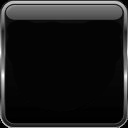
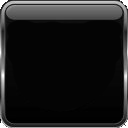
gfx update

diff --git a/main.cpp b/main.cpp
@@ -810,6 +810,7 @@ GLuint tidal_big_search_bar_album;
 // radio view icons
 GLuint onlineradio;                       // default radio icon
 GLuint onlineradio_empty;                 //
+GLuint onlineradio_selected;                 //
 GLuint onlineradio192;                    //
 GLuint onlineradio320;                    //
 GLuint radiooptions;                      //
@@ -12269,7 +12270,7 @@ void handleKeypress(unsigned char key, int x, int y) {
                   if (ask_save_playlist) {
                     save_ask_save_playlist = true;        // set save flag
                   }
-                  if (do_show_tidal_search_oversigt) {
+                  if ((do_show_tidal_search_oversigt) && (ask_save_playlist==false)) {
                     do_hent_tidal_search_online=true;
                     printf("do_hent_tidal_search_online=%d\n",do_hent_tidal_search_online);  
                   }
@@ -15369,6 +15370,7 @@ void loadgfx() {
     spotify_icon_border   = loadgfxfile(temapath,(char *) "images/",(char *) "spotify_icon_border.png");
 
     onlineradio_empty     = loadgfxfile(temapath,(char *) "images/",(char *) "onlineradio_empty");
+    onlineradio_selected  = loadgfxfile(temapath,(char *) "images/",(char *) "onlineradio_selected");
     onlineradio           = loadgfxfile(temapath,(char *) "images/",(char *) "onlineradio");
     onlineradio192        = loadgfxfile(temapath,(char *) "images/",(char *) "onlineradio192");
     onlineradio320        = loadgfxfile(temapath,(char *) "images/",(char *) "onlineradio320");
@@ -15580,6 +15582,7 @@ void freegfx() {
     glDeleteTextures( 1, &_tvbar3);                 //
     glDeleteTextures( 1, &spotify_icon_border);     // spotify icon border
     glDeleteTextures( 1, &onlineradio_empty);       //
+    glDeleteTextures( 1, &onlineradio_selected);    // selected radio icon
     glDeleteTextures( 1, &onlineradio);		          // radio icon
     glDeleteTextures( 1, &onlineradio192);			    // radio icon
     glDeleteTextures( 1, &onlineradio320);			    // radio icon

diff --git a/myctrl_radio.cpp b/myctrl_radio.cpp
@@ -52,6 +52,7 @@ extern int do_music_icon_anim_icon_ofset;                     //
 extern GLuint _textureIdback1;                                //
 extern GLuint onlineradio;					                          //
 extern GLuint onlineradio_empty;				                      //
+extern GLuint onlineradio_selected;				                    //
 extern GLuint onlineradio192;					                        //
 extern GLuint onlineradio320;					                        //
 extern GLuint radiooptions;                                   //
@@ -564,8 +565,12 @@ bool radiostation_class::show_radio_oversigt(GLuint normal_icon,GLuint normal_ic
       if (stack[i+sofset]->online) glColor4f(1.0f, 1.0f, 1.0f,1.0f); else glColor4f(.3f, .3f, .3f, 1.0f);
       glEnable(GL_TEXTURE_2D);
       glBlendFunc(GL_ONE, GL_ONE);
-      //glTexEnvf(GL_TEXTURE_ENV, GL_TEXTURE_ENV_MODE, GL_DECAL);
-      glBindTexture(GL_TEXTURE_2D,onlineradio_empty);
+      //glTexEnvf(GL_TEXTURE_ENV, GL_TEXTURE_ENV_MODE, GL_DECAL); 
+      if ((i+1==(int) radio_key_selected)) {
+        glBindTexture(GL_TEXTURE_2D,onlineradio_selected);
+      } else {
+        glBindTexture(GL_TEXTURE_2D,onlineradio_empty);
+      }
       glTexParameteri(GL_TEXTURE_2D, GL_TEXTURE_MIN_FILTER, GL_LINEAR);
       glTexParameteri(GL_TEXTURE_2D, GL_TEXTURE_MAG_FILTER, GL_LINEAR);
       glBegin(GL_QUADS);
@@ -602,7 +607,11 @@ bool radiostation_class::show_radio_oversigt(GLuint normal_icon,GLuint normal_ic
       glEnable(GL_TEXTURE_2D);
       glBlendFunc(GL_ONE, GL_ONE);
       //glTexEnvf(GL_TEXTURE_ENV, GL_TEXTURE_ENV_MODE, GL_DECAL);
-      glBindTexture(GL_TEXTURE_2D,onlineradio);
+      if ((i+1==(int) radio_key_selected)) {
+        glBindTexture(GL_TEXTURE_2D,onlineradio_selected);
+      } else {
+        glBindTexture(GL_TEXTURE_2D,onlineradio);
+      }
       glTexParameteri(GL_TEXTURE_2D, GL_TEXTURE_MIN_FILTER, GL_LINEAR);
       glTexParameteri(GL_TEXTURE_2D, GL_TEXTURE_MAG_FILTER, GL_LINEAR);
       glLoadName(100+i+sofset);

diff --git a/myctrl_tidal2.cpp b/myctrl_tidal2.cpp
@@ -469,6 +469,7 @@ int tidal_class::save_music_oversigt_playlists(char *playlistfilename,int tidalk
   std::string sql_insert;
   std::string sql_search;
   std::string playlistid;
+  std::string use_artistname;
   bool fundet;
   std::string temptxt;
   unsigned int i;
@@ -485,6 +486,7 @@ int tidal_class::save_music_oversigt_playlists(char *playlistfilename,int tidalk
   mysql_real_connect(conn, configmysqlhost,configmysqluser, configmysqlpass, database, 0, NULL, 0);
   mysql_query(conn,"set NAMES 'utf8'");
   res = mysql_store_result(conn);
+  if (strlen(artistname)==0) use_artistname="Unknown"; else use_artistname=artistname;
   if (conn) {
     // First inset into playlist db
     sql_insert = "insert into mythtvcontroller.tidalcontentplaylist (playlistname,paththumb,playlistid,release_date,artistid,antal_play,id) values (\"";
@@ -496,7 +498,7 @@ int tidal_class::save_music_oversigt_playlists(char *playlistfilename,int tidalk
     sql_insert = sql_insert + "',";
     sql_insert = sql_insert + "now()";                                     // dato
     sql_insert = sql_insert + ",'";
-    sql_insert = sql_insert + artistname;                                  // artist name
+    sql_insert = sql_insert + use_artistname.c_str();                      // artist name
     sql_insert = sql_insert + "',0,0)";
     // printf("PLAYLIST SQL : %s \n ",sql_insert.c_str());
     mysql_query(conn,sql_insert.c_str());
@@ -2461,8 +2463,6 @@ bool tidal_class::get_tidal_update_flag() {
 void tidal_class::set_tidal_update_flag(bool flag) {
   tidal_update_loaded_begin=flag;
 }
-
-
 
 
 // ****************************************************************************************

diff --git a/myctrl_tidal2.h b/myctrl_tidal2.h
@@ -239,8 +239,6 @@ class tidal_class {
     int load_tidal_iconoversigt();                                                                  // load all icons
     int get_access_token(char *loginbase64);                                                        // get token
     int get_users_album(char *albumid);                                                             // download json file for album id
-    // int tidal_play_playlist(char *playlist_song,int tidalknapnr,bool now);
-    // void thread_convert_m4a_to_flac(void *path);
     int tidal_download_image(char *imgurl,char *filename);
 
     void set_tidal_feed_showtxt(char *name,int nr) { strcpy(stack[nr].feed_showtxt,name); }
